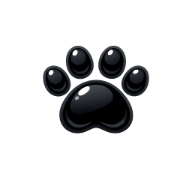
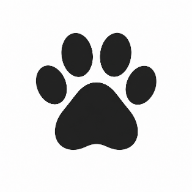
Merge open PR changes to main
- Apply updated RealFaviconGenerator assets and app icon metadata (PR #7)
- Add Vercel Web Analytics component and dependency (PR #1)
- Register favicon icons in page metadata
- Remove unused create-next-app next.svg and vercel.svg assets

Ahrefs analytics (PR #2) was already present on main.

Changed region(s): [[0.1875, 0.1562, 0.8438, 0.7812]]

diff --git a/src/lib/metadata.ts b/src/lib/metadata.ts
@@ -47,6 +47,15 @@ export function createPageMetadata({
   const base: Metadata = {
     description,
     metadataBase: new URL(SITE_URL),
+    icons: {
+      icon: [
+        { url: "/favicon-96x96.png", sizes: "96x96", type: "image/png" },
+        { url: "/favicon.svg", type: "image/svg+xml" },
+      ],
+      shortcut: "/favicon.ico",
+      apple: "/apple-touch-icon.png",
+    },
+    manifest: "/site.webmanifest",
     openGraph: {
       title: pageTitle,
       description,

diff --git a/src/app/layout.tsx b/src/app/layout.tsx
@@ -1,5 +1,6 @@
 import type { Metadata } from "next";
 import { Inter } from "next/font/google";
+import { Analytics } from "@vercel/analytics/next";
 
 import { Footer } from "@/components/layout/Footer";
 import { Header } from "@/components/layout/Header";
@@ -47,6 +48,7 @@ export default function RootLayout({
           {children}
         </main>
         <Footer />
+        <Analytics />
       </body>
     </html>
   );